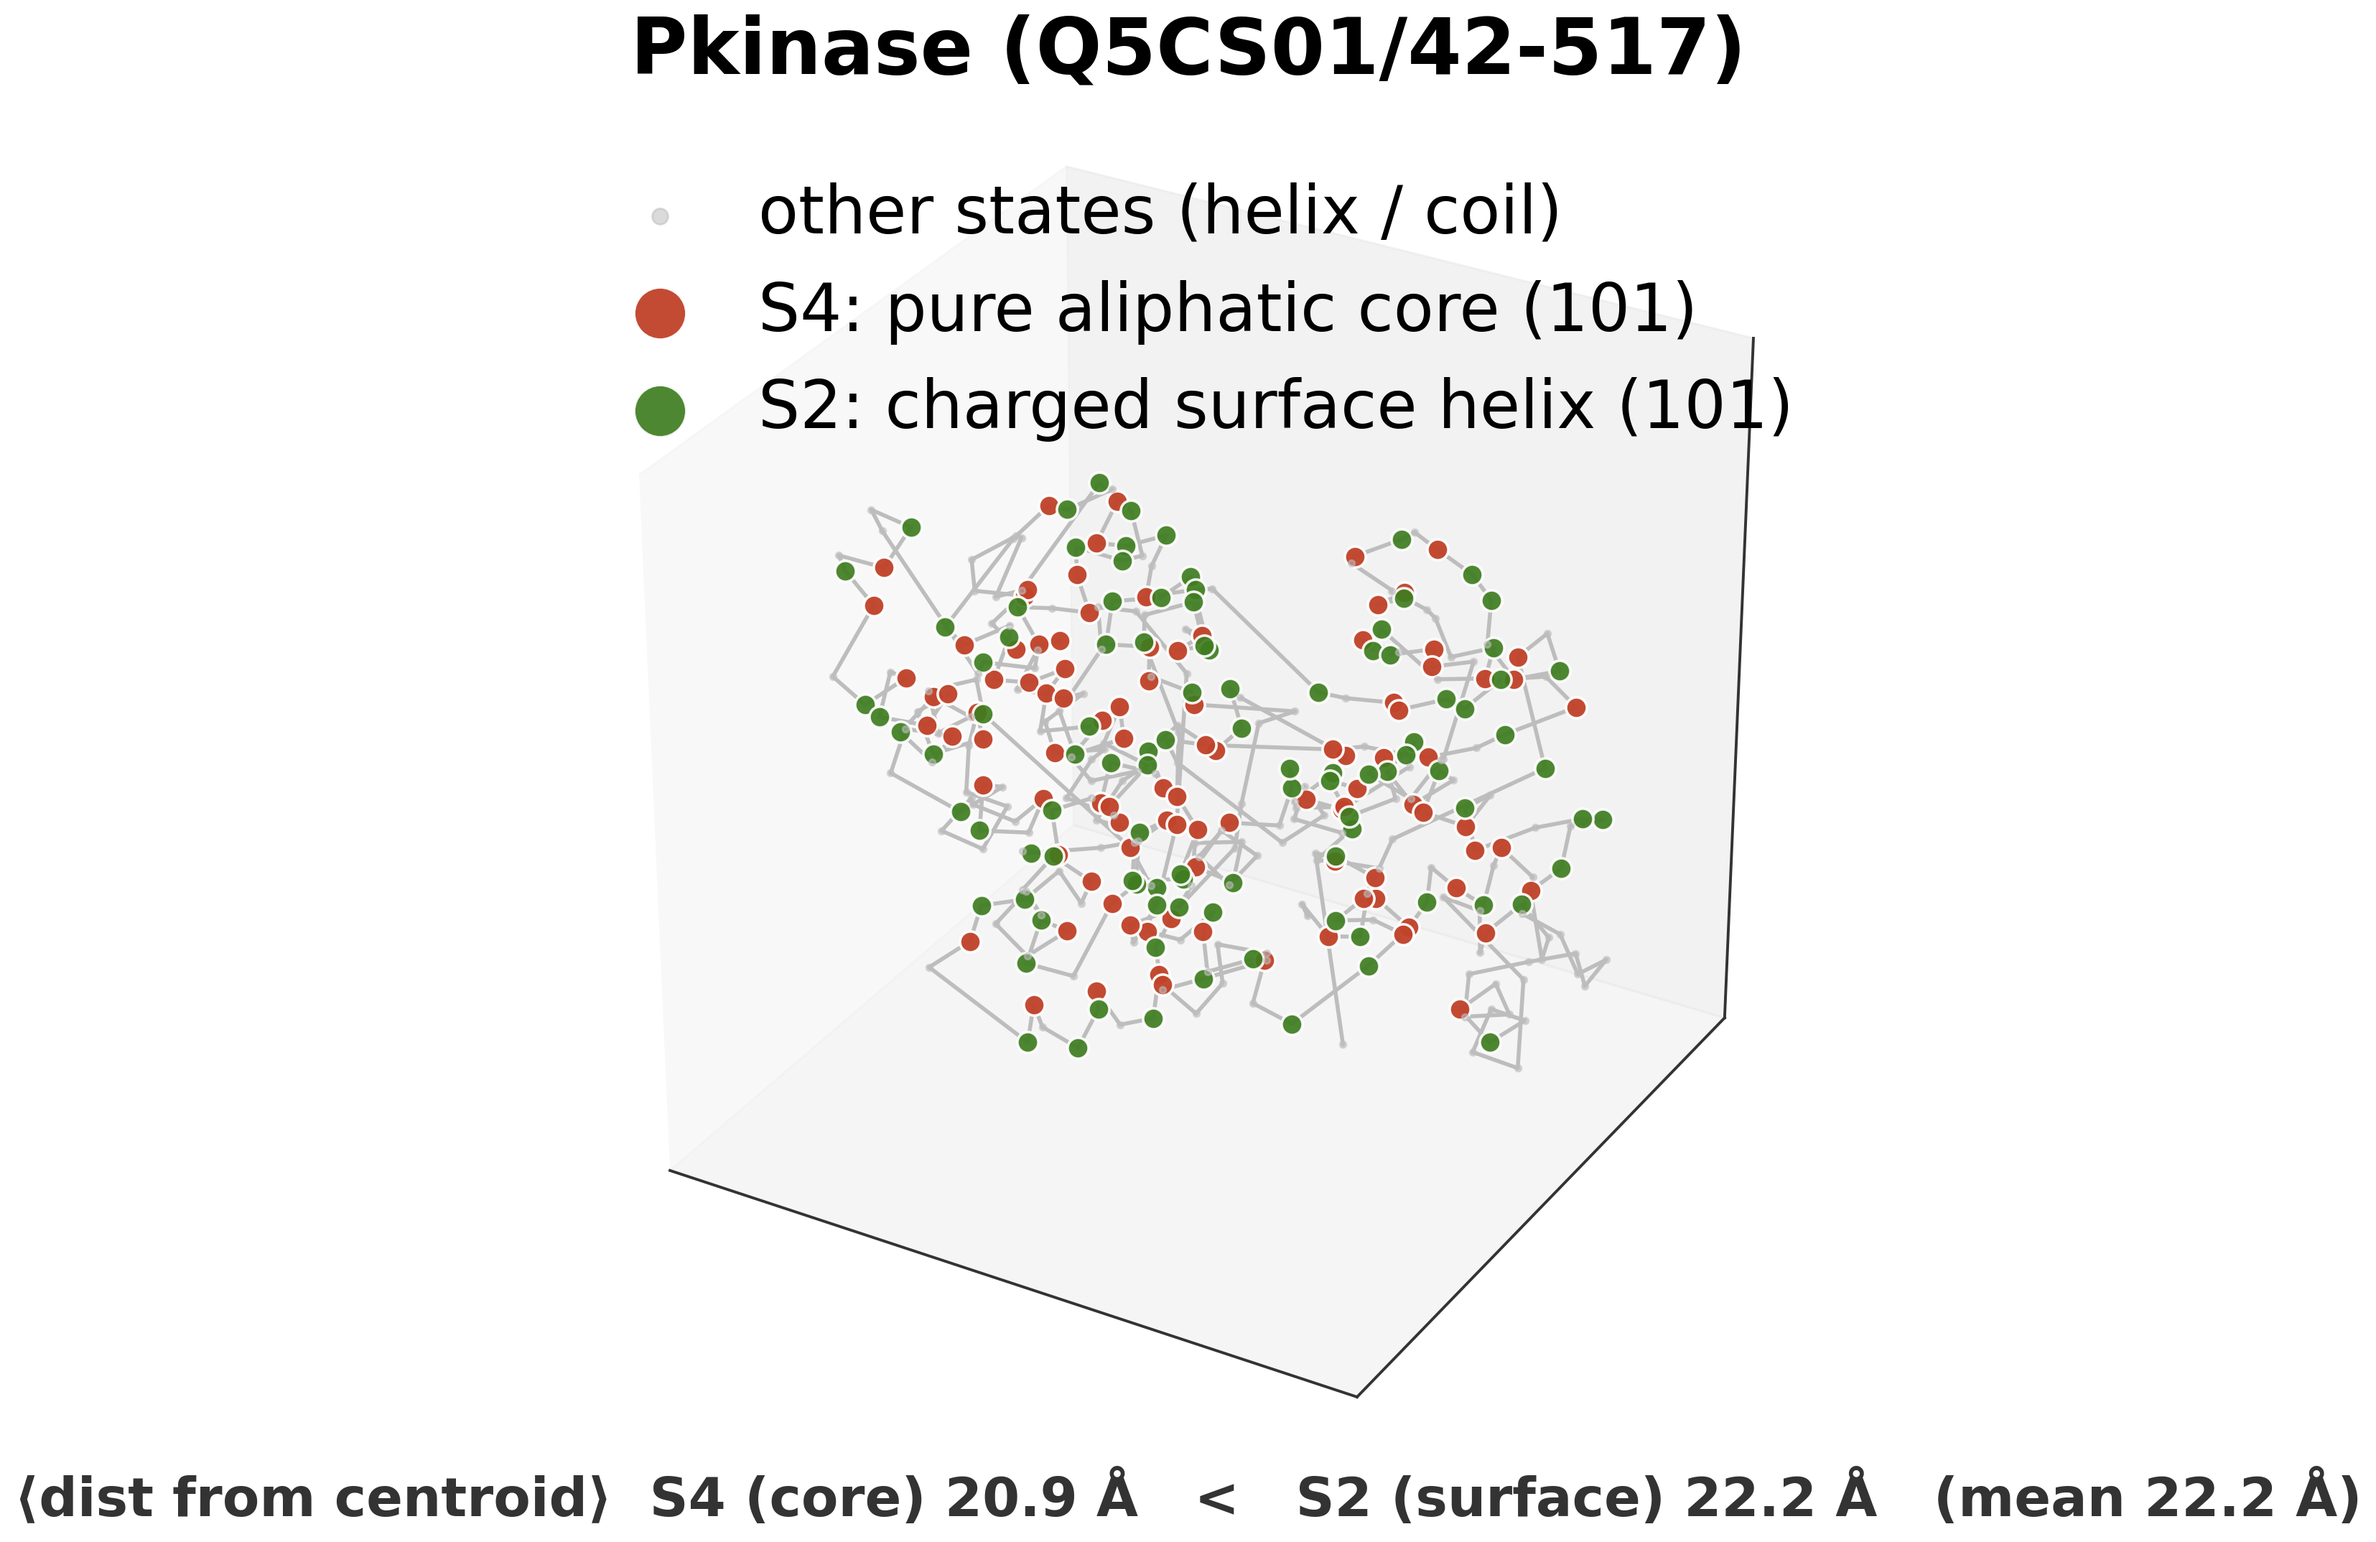
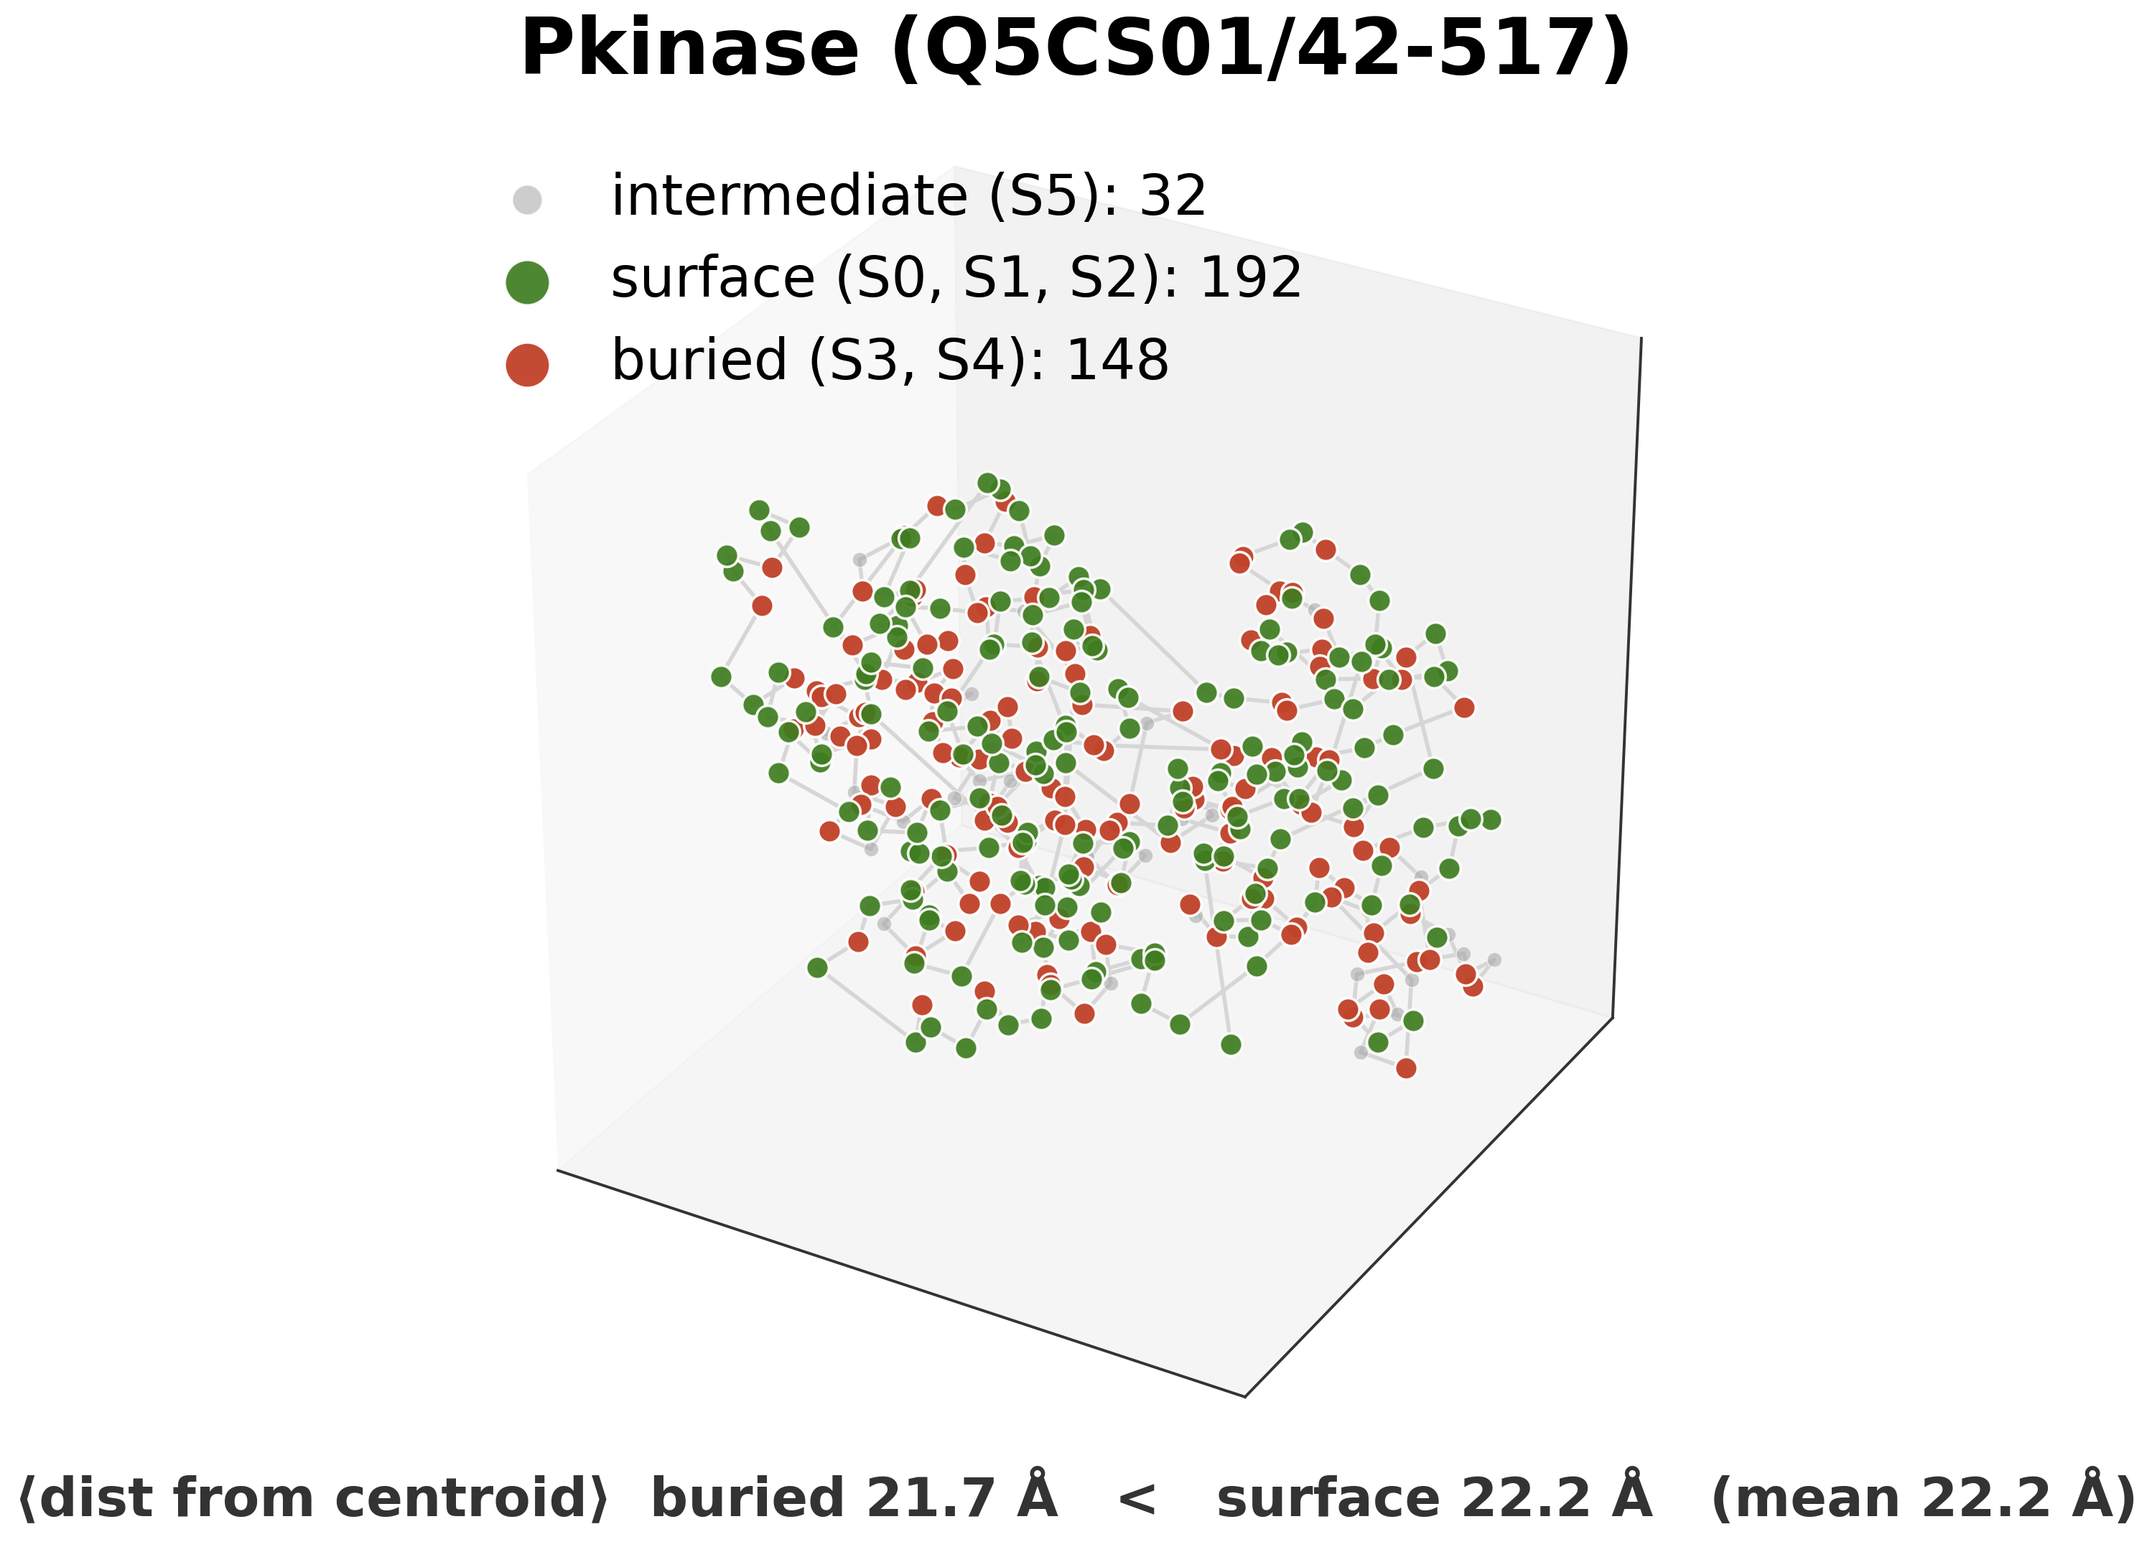
structure render: 3-color burial groups (buried / surface / intermediate)
Doubles the colored coverage from ~40% to ~88% of residues without
losing the buried-vs-surface punchline. K=6 grouping:

  buried (orange):       S3 (Gly-mixed buried), S4 (pure aliphatic core)
  surface (green):       S0 (polar surface helix), S1 (turn), S2 (charged surface helix)
  intermediate (grey):   S5 (polar / mixed strand)

Centroid distances now reported per burial group. Buried < surface
holds for all six families (Pkinase 21.7<22.2, Ras 22.9<26.3, RRM_1
16.4<16.5, WD40 38.4<40.1, PDZ 12.3<13.8, EF-hand 21.8<24.1).

diff --git a/scripts/render_state_colored_structure.py b/scripts/render_state_colored_structure.py
@@ -48,6 +48,14 @@ STATE_NAMES_BY_K = {
         4: "pure aliphatic core", 5: "polar / mixed strand"},
 }
 
+# Per-K burial groups for the 3-colour structure render: which state indices
+# count as buried (orange), surface (green), or intermediate / connector
+# (faded). Derived from state_summaries.json mean RSA per state.
+BURIAL_GROUPS_BY_K: dict[int, dict[str, list[int]]] = {
+    4: {"buried": [3], "surface": [0, 2], "intermediate": [1]},
+    6: {"buried": [3, 4], "surface": [0, 1, 2], "intermediate": [5]},
+}
+
 
 def _fetch_pdb(pdb_id: str, dest: Path) -> Path:
     if dest.exists() and dest.stat().st_size > 0:
@@ -166,15 +174,22 @@ def _aligned_states_and_coords(
 
 
 def render(record, states: np.ndarray, coords: np.ndarray, fig_dir: Path, K: int) -> None:
-    """Render the backbone in pale grey with the buried-core and surface
-    states highlighted (per-K mapping in CORE_STATE_BY_K / SURFACE_STATE_BY_K).
+    """Render the backbone with residues coloured by burial group:
+    buried (orange) / surface (green) / intermediate (faded grey).
     """
     apply_style()
-    core_state = CORE_STATE_BY_K[K]
-    surface_state = SURFACE_STATE_BY_K[K]
-    state_names = STATE_NAMES_BY_K[K]
+    groups = BURIAL_GROUPS_BY_K[K]
+    buried_states = set(groups["buried"])
+    surface_states = set(groups["surface"])
+    intermediate_states = set(groups.get("intermediate", []))
     core_color = "#c1432a"
     surface_color = "#3f7d20"
+    inter_color = "#a4a4a4"
+
+    state_names = STATE_NAMES_BY_K[K]
+    buried_label_states = ", ".join(f"S{s}" for s in sorted(buried_states))
+    surface_label_states = ", ".join(f"S{s}" for s in sorted(surface_states))
+    inter_label_states = ", ".join(f"S{s}" for s in sorted(intermediate_states))
 
     fig = plt.figure(figsize=(15, 11))
     ax = fig.add_subplot(111, projection="3d")
@@ -185,38 +200,40 @@ def render(record, states: np.ndarray, coords: np.ndarray, fig_dir: Path, K: int
             [coords[i, 0], coords[i + 1, 0]],
             [coords[i, 1], coords[i + 1, 1]],
             [coords[i, 2], coords[i + 1, 2]],
-            color="#bdbdbd", linewidth=2.0, solid_capstyle="round", zorder=1,
+            color="#d6d6d6", linewidth=2.0, solid_capstyle="round", zorder=1,
         )
 
-    background_mask = (states != core_state) & (states != surface_state)
-    if background_mask.any():
+    buried_mask = np.isin(states, list(buried_states))
+    surface_mask = np.isin(states, list(surface_states))
+    inter_mask = np.isin(states, list(intermediate_states))
+
+    if inter_mask.any() and intermediate_states:
         ax.scatter(
-            coords[background_mask, 0], coords[background_mask, 1], coords[background_mask, 2],
-            c="#bdbdbd", s=10, alpha=0.55, depthshade=False, zorder=2,
-            label="other states (helix / coil)",
+            coords[inter_mask, 0], coords[inter_mask, 1], coords[inter_mask, 2],
+            c=inter_color, s=55, alpha=0.55, depthshade=False, zorder=2,
+            edgecolors="white", linewidths=0.6,
+            label=f"intermediate ({inter_label_states}): {int(inter_mask.sum())}",
         )
 
-    core_mask = states == core_state
-    if core_mask.any():
-        ax.scatter(
-            coords[core_mask, 0], coords[core_mask, 1], coords[core_mask, 2],
-            c=core_color, s=110, edgecolors="white", linewidths=1.3,
-            depthshade=False, alpha=0.96, zorder=4,
-            label=f"S{core_state}: {state_names[core_state]} ({int(core_mask.sum())})",
-        )
-
-    surface_mask = states == surface_state
     if surface_mask.any():
         ax.scatter(
             coords[surface_mask, 0], coords[surface_mask, 1], coords[surface_mask, 2],
-            c=surface_color, s=110, edgecolors="white", linewidths=1.3,
+            c=surface_color, s=130, edgecolors="white", linewidths=1.3,
             depthshade=False, alpha=0.92, zorder=3,
-            label=f"S{surface_state}: {state_names[surface_state]} ({int(surface_mask.sum())})",
+            label=f"surface ({surface_label_states}): {int(surface_mask.sum())}",
+        )
+
+    if buried_mask.any():
+        ax.scatter(
+            coords[buried_mask, 0], coords[buried_mask, 1], coords[buried_mask, 2],
+            c=core_color, s=130, edgecolors="white", linewidths=1.3,
+            depthshade=False, alpha=0.96, zorder=4,
+            label=f"buried ({buried_label_states}): {int(buried_mask.sum())}",
         )
 
     centroid = coords.mean(axis=0)
     dist = np.linalg.norm(coords - centroid, axis=1)
-    core_dist = dist[core_mask].mean() if core_mask.any() else float("nan")
+    core_dist = dist[buried_mask].mean() if buried_mask.any() else float("nan")
     surface_dist = dist[surface_mask].mean() if surface_mask.any() else float("nan")
     avg = dist.mean()
 
@@ -225,15 +242,15 @@ def render(record, states: np.ndarray, coords: np.ndarray, fig_dir: Path, K: int
     ax.set_zticks([])
     ax.grid(False)
     ax.set_box_aspect((1, 1, 1))
-    ax.legend(loc="upper left", fontsize=33, framealpha=0.95, markerscale=2.5,
+    ax.legend(loc="upper left", fontsize=28, framealpha=0.95, markerscale=2.0,
               handletextpad=0.5, borderpad=0.6)
     family = record.family
     family_name = {"PF00069": "Pkinase", "PF00071": "Ras", "PF00076": "RRM_1",
                    "PF00595": "PDZ", "PF13499": "EF-hand_7", "PF00400": "WD40"}.get(family, family)
     title = f"{family_name} ({record.protein_id})"
     subtitle = (
-        f"⟨dist from centroid⟩  S{core_state} (core) {core_dist:.1f} Å   "
-        f"<   S{surface_state} (surface) {surface_dist:.1f} Å   (mean {avg:.1f} Å)"
+        f"⟨dist from centroid⟩  buried {core_dist:.1f} Å   "
+        f"<   surface {surface_dist:.1f} Å   (mean {avg:.1f} Å)"
     )
     ax.set_title(title, fontsize=39, fontweight="bold", pad=18)
     ax.text2D(0.5, -0.02, subtitle, transform=ax.transAxes,
@@ -242,7 +259,7 @@ def render(record, states: np.ndarray, coords: np.ndarray, fig_dir: Path, K: int
     out_path = fig_dir / f"structure_colored_{family}_{record.protein_id.replace('/', '_')}.png"
     fig.savefig(out_path, dpi=200, bbox_inches="tight")
     plt.close(fig)
-    print(f"  rendered {out_path.name}: {len(states)} CA, S{core_state} d={core_dist:.1f}, S{surface_state} d={surface_dist:.1f}, mean {avg:.1f}")
+    print(f"  rendered {out_path.name}: {len(states)} CA, buried d={core_dist:.1f}, surface d={surface_dist:.1f}, mean {avg:.1f}")
 
 
 def main() -> None:

diff --git a/scripts/make_state_summary_figures.py b/scripts/make_state_summary_figures.py
@@ -104,42 +104,43 @@ def _state_summary(model: DiscreteHMM, rsa_means: list[float], dssp_enrichment: 
 
 def plot_kd_vs_rsa(summaries, fig_dir: Path) -> None:
     apply_style()
-    fig, ax = plt.subplots(figsize=(10, 8))
+    fig, ax = plt.subplots(figsize=(11, 9))
     K = len(summaries)
     placements = LABEL_PLACEMENT_BY_K.get(K, {})
     for s in summaries:
         color = DSSP_COLORS[s["dominant_dssp"]]
-        size = 2200 * s["stationary"]
+        size = 5500 * s["stationary"]
         ax.scatter(
             s["kd"], s["rsa"],
             s=size,
             c=color,
             alpha=0.85,
             edgecolors="white",
-            linewidths=2.5,
+            linewidths=3.5,
             zorder=3,
         )
         offset_x, offset_y, ha, va = placements.get(
-            s["state"], (12, 12, "left", "bottom"),
+            s["state"], (16, 16, "left", "bottom"),
         )
         ax.annotate(
             f"S{s['state']}\n{s['interpretation']}",
             xy=(s["kd"], s["rsa"]),
             xytext=(offset_x, offset_y),
             textcoords="offset points",
-            fontsize=14,
+            fontsize=22,
             fontweight="bold",
             color=color,
             ha=ha,
             va=va,
         )
-    ax.axvline(0.0, color="#bbbbbb", linewidth=0.8, zorder=1)
+    ax.axvline(0.0, color="#bbbbbb", linewidth=1.0, zorder=1)
     avg_rsa = float(np.mean([s["rsa"] for s in summaries]))
-    ax.axhline(avg_rsa, color="#bbbbbb", linewidth=0.8, zorder=1, linestyle="--")
-    ax.set_xlabel("Mean Kyte-Doolittle hydrophobicity\n(← polar / charged       hydrophobic →)", fontsize=14)
-    ax.set_ylabel("Mean RSA per state\n(← buried        exposed →)", fontsize=14)
-    ax.set_title("States separate in biochemistry × geometry space", fontsize=18, fontweight="bold", pad=20)
+    ax.axhline(avg_rsa, color="#bbbbbb", linewidth=1.0, zorder=1, linestyle="--")
+    ax.set_xlabel("Mean Kyte-Doolittle hydrophobicity\n(← polar / charged       hydrophobic →)", fontsize=20, fontweight="bold")
+    ax.set_ylabel("Mean RSA per state\n(← buried        exposed →)", fontsize=20, fontweight="bold")
+    ax.set_title("States separate in biochemistry × geometry space", fontsize=26, fontweight="bold", pad=24)
     ax.grid(axis="both", linestyle=":", alpha=0.5)
+    ax.tick_params(axis="both", labelsize=16)
     # Add headroom above the highest marker so above-marker labels don't crash into the title.
     rsa_values = [s["rsa"] for s in summaries]
     kd_values = [s["kd"] for s in summaries]
@@ -155,15 +156,15 @@ def plot_kd_vs_rsa(summaries, fig_dir: Path) -> None:
         mpatches.Patch(color=DSSP_COLORS["E"], label="Dominant: strand (E)"),
         mpatches.Patch(color=DSSP_COLORS["C"], label="Dominant: coil (C)"),
     ]
-    legend = ax.legend(handles=handles, loc="upper right", fontsize=12, framealpha=0.95,
+    legend = ax.legend(handles=handles, loc="upper right", fontsize=17, framealpha=0.95,
                        bbox_to_anchor=(1.0, 1.0))
-    legend.set_title("DSSP enrichment", prop={"size": 12, "weight": "bold"})
+    legend.set_title("DSSP enrichment", prop={"size": 18, "weight": "bold"})
 
     ax.text(
         0.02, 0.02,
         "marker size ∝ stationary state occupancy",
         transform=ax.transAxes,
-        fontsize=15, color="#555", style="italic", fontweight="bold",
+        fontsize=18, color="#555", style="italic", fontweight="bold",
     )
     fig.tight_layout()
     fig.savefig(fig_dir / "state_kd_vs_rsa_scatter.png", dpi=200)
